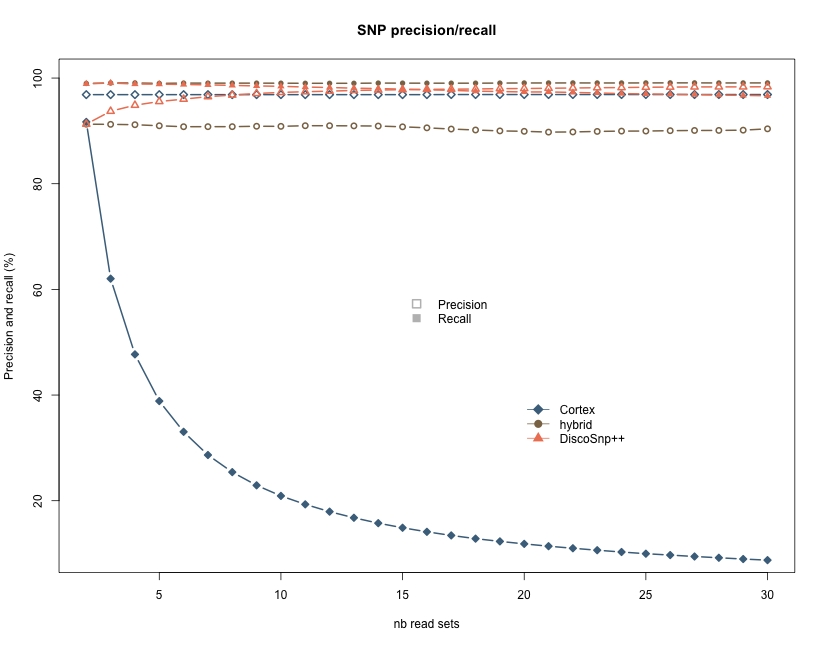
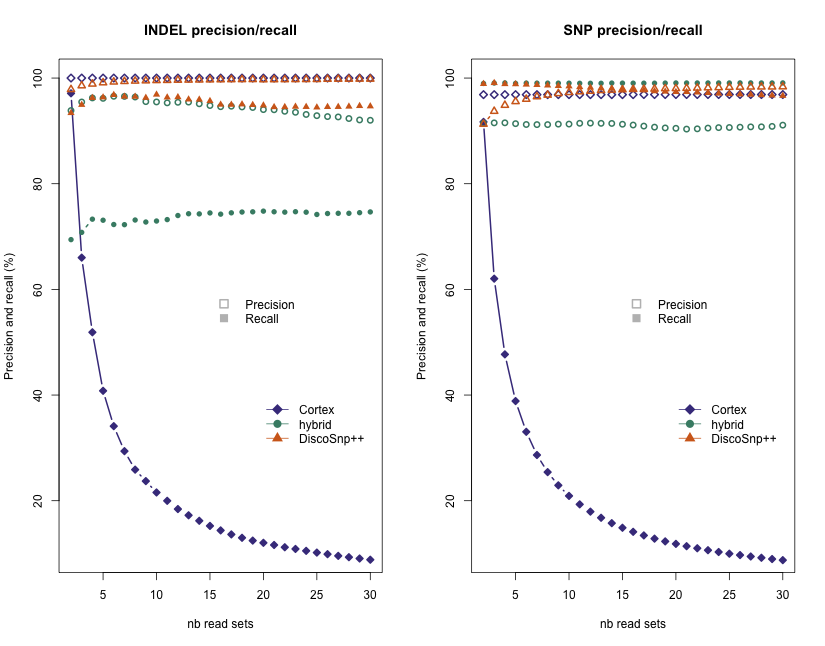
changement des couleurs de figures

diff --git a/donot_release/manuscript/discoSnppp_giga_science.tex b/donot_release/manuscript/discoSnppp_giga_science.tex
@@ -351,9 +351,12 @@ In particular, the graph file format is common to other GATB tools, and the grap
 Additionally, \discopp handles pair of reads during the counting phase. Simply, each pair of read files is considered as a unique read set while computing coverages, qualities, ranks and genotypes. 
 
 %CL il faudra rajouter ici le seuil automatique ?
+%PP avec plaisir :)
 
 \section*{Results}
 %CL suggestion pour que ca ressemble pas trop a la publi NAR : changer les couleurs des figures, changer les figures (mais je n'ai pas d'idées comment...)
+%PP: pour l'instant j'ai changé les couleurs.
+
 We propose results both on synthetic and on real datasets. Synthetic datasets offer a way to exactly compute the precision and the recall of \discopp and of state-of-the-art methods. 
 
 \subsection*{Results on synthetic datasets}
@@ -364,7 +367,7 @@ Thus, we dispose of the exact and exhaustive list of variants to be found, and w
 
 \subsubsection*{Two and more bacterial read sets}
 %CL si on a implementé le seuil auto par jeu de donnees, pourrait faire une expe avec des couvertures differentes dans chaque jeu : on serait peut-être bien meilleurs que les autres ?? 
-%PP: avec la correction de la validation des SNPs détectés plusieurs fois, on est meilleurs que les autres. 
+%PP: avec la correction de la validation des SNPs détectés plusieurs fois, on est déjà meilleurs que les autres. Ceci dit si on pouvait faire encore mieux faut pas s'en priver. 
 We performed an experiment on a variable number of read sets. Each read set corresponds to a simulation of the sequencing of an \emph{Escherichia Coli} individual. As presented in the Additional File 1, we simulated SNPs and indels of size in 1 to 10 (average 5) such that the distributions of shared polymorphism between subsets of individuals are realistic. 
 
 Precision and recall results, presented in Figure~\ref{fig:ncoli}, allow to draw the following conclusions while calling SNPs from several haploid individuals. 
